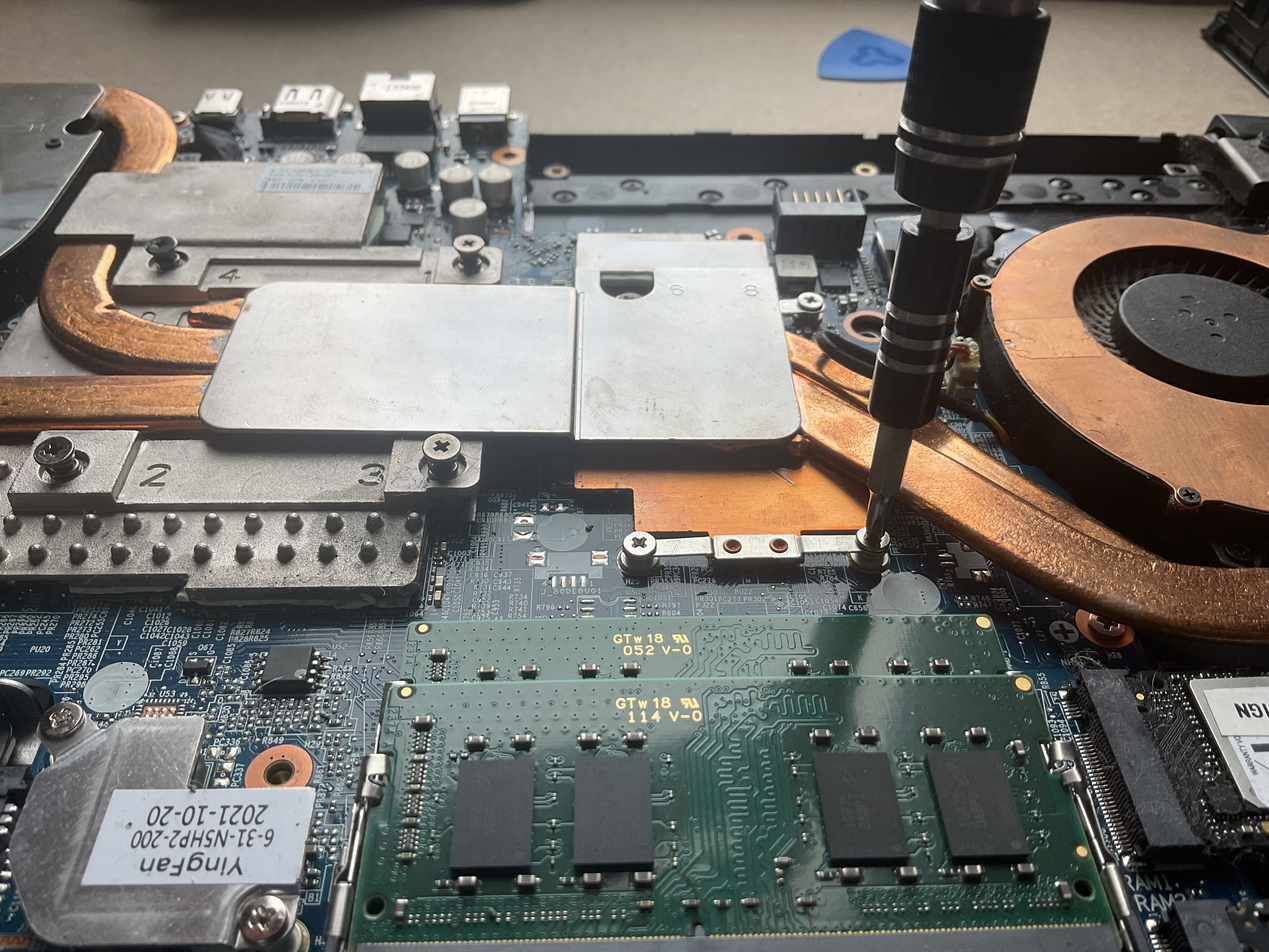
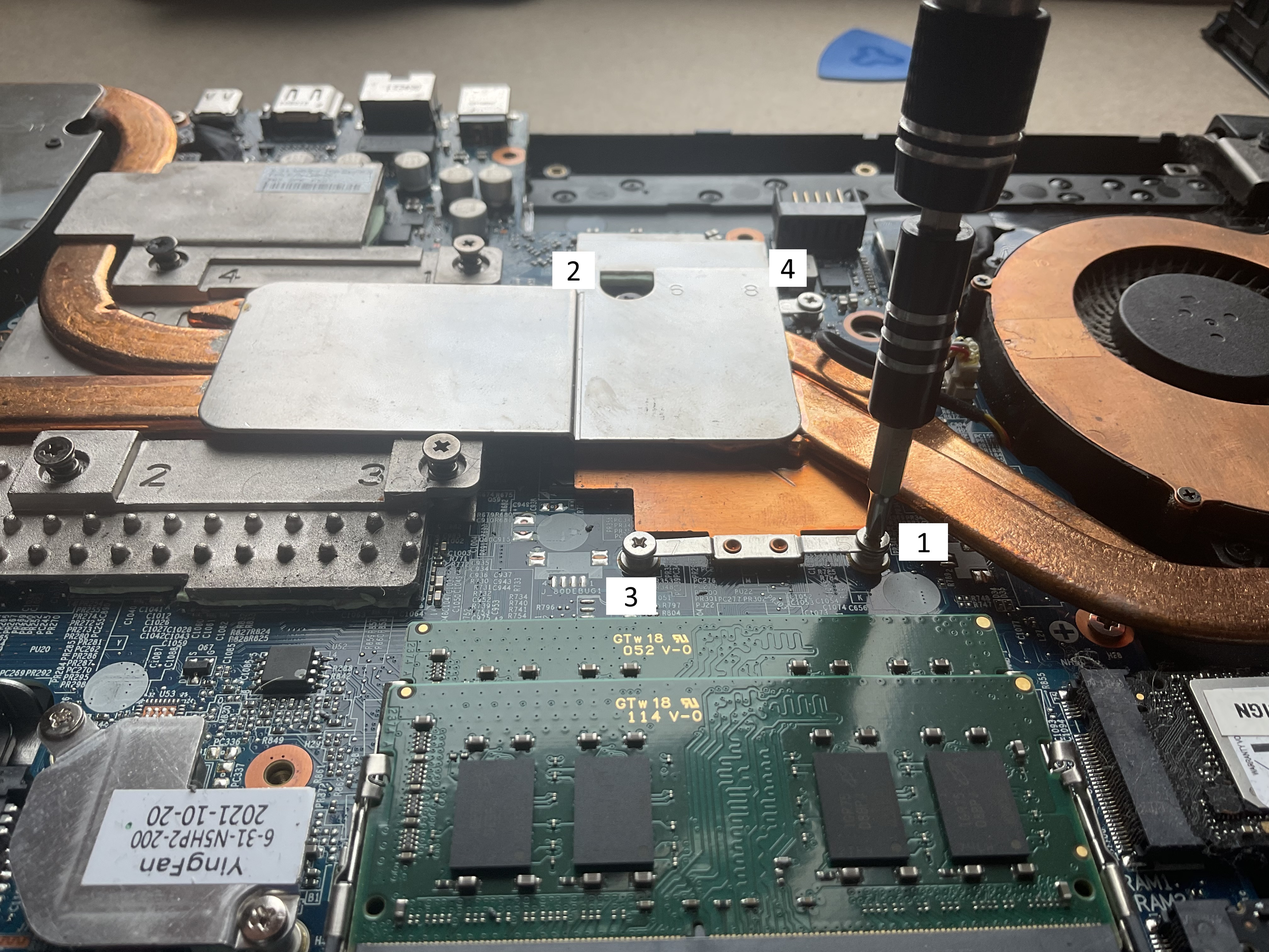
roughdraft

diff --git a/index.html b/index.html
@@ -10,7 +10,6 @@
 <body>
 <div class="container">
 
-
     <h1>How To Replace Your Laptop's Thermal Paste</h1>
     <div class="description italics main-column">
         <p>These instructions are intended for laptop-owning tech-savvy do-it-yourself people whose laptops are overheating or slow/experiencing performance issues.</p>
@@ -116,7 +115,261 @@
     <p>If the temperatures shown are below 50 degrees celcius, temperature is probably not the thing slowing down your laptop.</p>
     <p>If the temperatures are above 50 degrees celcius, replacing the thermal paste could help solve your performance problem.</p>
 
-    
+    <h2>Step 2 - Tear down the laptop</h2>
+
+    <p>Before we start, <b>make sure you have new thermal paste on hand!</b> It would be the pits if you have your laptop all torn up only to realize you forgot to get good thermal paste.</p>
+    <p>Do some research to figure out what you need, but in general, you don't need anything too fancy. I got the cheapest I could find at my local Best Buy and it's worked fine.</p>
+    <p>These steps are general outlines for tearing down laptops, specifically those designed for gaming. Your laptop may have extra steps, or not need a particular step.</p>
+    <p>If you don't feel comfortable continuing while the laptop is still open, take a break. If after the break you still don't feel comfortable continuing, put the laptop back together, and contact professional tech support about your issue. I'll let you know when we've hit the point of no return on the disassembly side.</p>
+    <p>You're going to need some tools before you start.</p>
+    <ul>
+        <li>Microfiber Cloth</li>
+        <li>Isopropyl Alcohol</li>
+        <li>Thermal Paste</li>
+        <li>Small non-magnetic screwdriver with multiple bits</li>
+        <li>A couple plastic pry tools</li>
+        <li>Gloves for handling the thermal paste</li>
+    </ul>
+    <p>I also reccomend figuring out your system for storing screws before you start. I'll be using a magnetic screw holder, but small cups or office supply organizers work just as well.</p>
+
+    <div class="carousel">
+        <div class="carousel-track">
+            <div class="step">
+                <img src="pictures/IMG_0324.jpg">
+                <p>Here's my setup. I have a good amount of space to work on and excellent lighting. The working surface is clean and uniform, making dropped screws easy to find. I've also got an iPad on the left so I can look up problems as I run into them. All my tools are laid out where I can see and access them easily.</p>
+            </div>
+            <div class="step">
+                <img src="pictures/IMG_0325.jpg">
+                <p>Turn your laptop upside down and locate the battery. The first thing you should do when disassembling any electronic device is removing the power from the system. The battery may be screwed into place, or latched like mine is above.</p>
+            </div>
+            <div class="step">
+                <img src="pictures/IMG_0326.jpg">
+                <p>Make sure the battery is able to be removed, and gently remove it. Generally, you shouldn't need to force it out.</p>
+            </div>
+            <div class="step">
+                <img src="pictures/IMG_0327.jpg">
+                <p>Set the battery aside in a safe place. Remove all the screws you can see from the back. There will be a lot.</p>
+            </div>
+            <div class="step">
+                <img src="pictures/IMG_0329.jpg">
+                <p>After all the screws are removed, slide your plastic pry tools into the seams of the laptop, but <b>steer clear of ports.</b> Ports have delicate cables that connect them to internal components, and if the cables break, the ports break. The goal here is to seperate the back plastic bottom from the chasis the laptop internals are screwed to. Expect to hear some clips snapping.</p>
+            </div>
+            <div class="step">
+                <img src="pictures/IMG_0332.jpg">
+                <p>You'll feel the back come loose. Remove all the plastic pry tools.</p>
+            </div>
+            <div class="step">
+                <img src="pictures/IMG_0333.jpg">
+                <p>Gently lift the bottom of the laptop near its front, opposite of its hinge. Don't force it off. If it doesn't come up easily, you may have missed a screw or two.</p>
+            </div>
+        </div>
+        <div class="carousel-buttons">
+            <button class="carousel-button prev">&#8592;</button>
+            <button class="carousel-button next">&#8594;</button>
+        </div>
+    </div>
+
+    <!-- Look at laptop internals -->
+    <p>Congratulations! You're inside your laptop. Let's take a second to get our bearings before we go any deeper.</p>
+    <p>Everything is screwed and plugged into the motherboard. Components use the motherboard to talk to eachother.</p>
+    <div class="carousel">
+        <div class="carousel-track">
+            <div class="step">
+                <img src="pictures/storage_devices.png">
+                <p>These are our storage devices. This is where all of our pictures, music, videos and programs are.</p>
+            </div>
+            <div class="step">
+                <img src="pictures/ram.png">
+                <p>This is our RAM. This is where running programs are kept for quick access.</p>
+            </div>
+            <div class="step">
+                <img src="pictures/fans.png">
+                <p>These are the fans.</p>
+            </div>
+            <div class="step">
+                <img src="pictures/radiators.png">
+                <p>These are the radiators. The fans blow air through the radiators. The pipes that run in and out of them are made of copper, an excellent heat conductor. The radiators cool down the copper pipes.</p>
+            </div>
+            <div class="step">
+                <img src="pictures/cooling_block.png">
+                <p>Here is the laptop's cooling block. The copper pipes move heat away from the cooling block, cooling down the components. The CPU and GPU are under here.</p>
+            </div>            
+        </div>
+        <div class="carousel-buttons">
+            <button class="carousel-button prev">&#8592;</button>
+            <button class="carousel-button next">&#8594;</button>
+        </div>
+    </div>
+
+    <!-- Remove cooling system -->
+    <p>After you've located your cooling system (fans, radiators, and one or two cooling blocks), go ahead and continue tearing the laptop down. This is the point of no return. After you've lifted the cooling system out of the laptop, you should avoid reassembling the laptop until fresh thermal paste has beel applied.</p>
+    <div class="carousel">
+        <div class="carousel-track">
+            <div class="step">
+                <img src="pictures/IMG_0339.jpg">
+                <p>Find the screws that are holding the cooling block in place. Mine are here.</p>
+            </div>
+            <div class="step">
+                <img src="pictures/screw_order.png">
+                <p>Begin unscrewing the cooling block. There is a specific order for removig the screws. Unscrew opposing corners of screws first, as shown above. These screws are spring loaded, and aren't able to be fully removed.</p>
+            </div>
+            <div class="step">
+                <img src="pictures/IMG_0342.jpg">
+                <p>My laptop has two cooling blocks, so I have to remove those screws as well, making sure to remove opposite screws first.</p>
+            </div>
+            <div class="step">
+                <img src="pictures/IMG_0344.jpg">
+                <p>Locate where the fans are plugged into the motherboard, and unplug them. Pull from their plastic ends to avoid breaking the wires.</p>
+            </div>
+            <div class="step">
+                <img src="pictures/IMG_0346.jpg">
+                <p>Remove the large screws securing the fans to the laptop. Mine have 3 screws each, and were located here. Order is less important here than with the cooling blocks.</p>
+            </div>
+            <div class="step">
+                <img src="pictures/IMG_0347.jpg">
+                <p><b>This is the point of no return. After completing this step, avoid reassembling the laptop until fresh thermal paste has been applied.</b><br>Gently loosen the cooling system from the laptop. You may have to gently twist it.</p>
+            </div>
+            <div class="step">
+                <img src="pictures/IMG_0349.jpg">
+                <p>Gently lift the cooling system. Ensure no cables are still attatched to it.</p>
+            </div>
+            <div class="step">
+                <img src="pictures/IMG_0350.jpg">
+                <p>Remove the cooling system from the laptop. Set it somewhere safe.</p>
+            </div>
+        </div>
+        <div class="carousel-buttons">
+            <button class="carousel-button prev">&#8592;</button>
+            <button class="carousel-button next">&#8594;</button>
+        </div>
+    </div>
+
+    <p>Congratulations! You've removed the cooling system from your laptop. The hard part's over.</p>
+    <p>Let's take a second to get our bearings before moving on.</p>
+    <div class="carousel">
+        <div class="carousel-track">
+            <div class="step">
+                <img src="pictures/IMG_0351.jpg">
+                <p>Here's a closer picture of the laptop without the cooling system. The gray splotches are the dried thermal paste we're going to remove.</p>
+            </div>
+            <div class="step">
+                <img src="pictures/IMG_0352.jpg">
+                <p>Here is the GPU.</p>
+            </div>
+            <div class="step">
+                <img src="pictures/IMG_0353.jpg">
+                <p>Here is the CPU.</p>
+            </div>
+        </div>
+        <div class="carousel-buttons">
+            <button class="carousel-button prev">&#8592;</button>
+            <button class="carousel-button next">&#8594;</button>
+        </div>
+    </div>
+
+    <h2>Step 3 - Apply new thermal paste</h2>
+    <p>For this section, it's important to get good airflow. I'm going to open the window I'm working by. If you're in a smaller room, just using a fan may not be enough, and you could have to move to a different room. Saftey is key.</p>
+    <p>I'm also going to put on some gloves. <a href="https://koolingmonster.com/insights/is-thermal-paste-toxic">Modern thermal paste isn't dangerous</a>, but it may be difficult to clean off your hands.</p>
+    <p>When you're ready, continue to the next step.</p>
+   <div class="carousel">
+        <div class="carousel-track">
+            <div class="step">
+                <img src="pictures/IMG_0359.jpg">
+                <p>Wet your micorfiber cloth with some isopropyl alcohol. I'm using a small glass cup so I can control how much I'm using easily.</p>
+            </div>
+            <div class="step">
+                <img src="pictures/IMG_0361.jpg">
+                <p>Gently begin rubbing the CPU and GPU with the alcohol. This is going to loosen the dried thermal paste, and it will be transferred onto the microfiber cloth. After rubbing for a bit, switch to a new part of the microfiber cloth, re-wet it, and continue. Repeat until the surface of the CPU and GPU are reflective.</p>
+            </div>
+            <div class="step">
+                <img src="pictures/IMG_0371.jpg">
+                <p>This is what we're going for. The GPU and CPU are reflective.</p>
+            </div>
+            <div class="step">
+                <img src="pictures/IMG_0379.jpg">
+                <p>Remove the dry thermal paste from the cooling system.</p>
+            </div>
+            <div class="step">
+                <img src="pictures/IMG_0372.jpg">
+                <p>Grab your thermal paste. Most of them are in a small syringe.</p>
+            </div>
+            <div class="step">
+                <img src="pictures/IMG_0373.jpg">
+                <p>Remove the cap from the tube.</p>
+            </div>
+            <div class="step">
+                <img src="pictures/IMG_0374.jpg">
+                <p>Position the tube abov the GPU, and apply a <a href="https://www.corsair.com/us/en/explorer/diy-builder/cpu-coolers/how-much-thermal-paste-should-i-use">pea-sized drop</a>.</p>
+            </div>
+            <div class="step">
+                <img src="pictures/IMG_0375.jpg">
+                <p>Since my CPU is not a square, I'm also going to trace a line down the middle to ensure the entire surface will be covered in thermal paste when the cooling system is reapplied.</p>
+            </div>
+        </div>
+        <div class="carousel-buttons">
+            <button class="carousel-button prev">&#8592;</button>
+            <button class="carousel-button next">&#8594;</button>
+        </div>
+    </div>
+
+    <p>Now that the fresh thermal paste has been applied, it's time to start putting things back together.</p>
+
+    <h2>Step 4 - Reassembly</h2>
+    <p>This is basically step 1, but in reverse.</p>
+   <div class="carousel">
+        <div class="carousel-track">
+            <div class="step">
+                <img src="pictures/IMG_0384.jpg">
+                <p>Gently place the cooling system back on the laptop.</p>
+            </div>
+            <div class="step">
+                <img src="pictures/IMG_0390.jpg">
+                <p>Begin inserting screws in the opposite order which they came off. Since the left fans came off last during the tear down, they're going on first during the reassembly.</p>
+            </div>
+            <div class="step">
+                <img src="pictures/IMG_0391.jpg">
+                <p>Now I'm doing the right fan.</p>
+            </div>
+            <div class="step">
+                <img src="pictures/IMG_0393.jpg">
+                <p>Plug the fans back into the motherboard. My laptop beeps loudly when it powers on if I forget, but others may not have that safeguard. Running a laptop without the fans plugged in could damage the components.</p>
+            </div>
+            <div class="step">
+                <img src="pictures/IMG_0342.jpg">
+                <p>Screw the CPU cooling block back into place, going from 4 - 3 - 2 - 1. It is important to screw in opposite sides first. I like to do each screw halfway, then finish them off during a second pass to make sure the arms apply even tension.</p>
+            </div>
+            <div class="step">
+                <img src="pictures/screw_order.png">
+                <p>Screw the GPU cooling block back into place, going from 4 - 3 - 2 - 1.</p>
+            </div>
+            <div class="step">
+                <img src="pictures/IMG_0397.jpg">
+                <p>Gently place the back of the laptop onto the latop chasis. Ensure there aren't any pinched wires, and gently click it back into place.</p>
+            </div>
+            <div class="step">
+                <img src="pictures/IMG_0397.jpg">
+                <p>Gently place the back of the laptop onto the latop chasis. Ensure there aren't any pinched wires, and gently click it back into place.</p>
+            </div>
+            <div class="step">
+                <img src="pictures/IMG_0399.jpg">
+                <p>Screw the back of the laptop into place. Make sure the right sized screws go into the right holes.</p>
+            </div>
+            <div class="step">
+                <img src="pictures/IMG_0401.jpg">
+                <p>Reinsert the battery, and secure it to the laptop.</p>
+            </div>
+        </div>
+        <div class="carousel-buttons">
+            <button class="carousel-button prev">&#8592;</button>
+            <button class="carousel-button next">&#8594;</button>
+        </div>
+    </div>
+    <p>The laptop is reassembled. Now, lets see if our performance problem was solved!</p>
+
+    <h2>Step 5 - Testing</h2>
+    <p>Now that the laptop is reassembled with fresh thermal paste, turn it on and start MSI Afterburner.</p>
+    <p>Open the Hardware Monitor, and check if the temperature of your components has gone down.</p>
+    <p>If they have, but you're still having performance issues, you can take dry thermal paste off your list of possibilities.</p>
 
 </div>
 </body>
